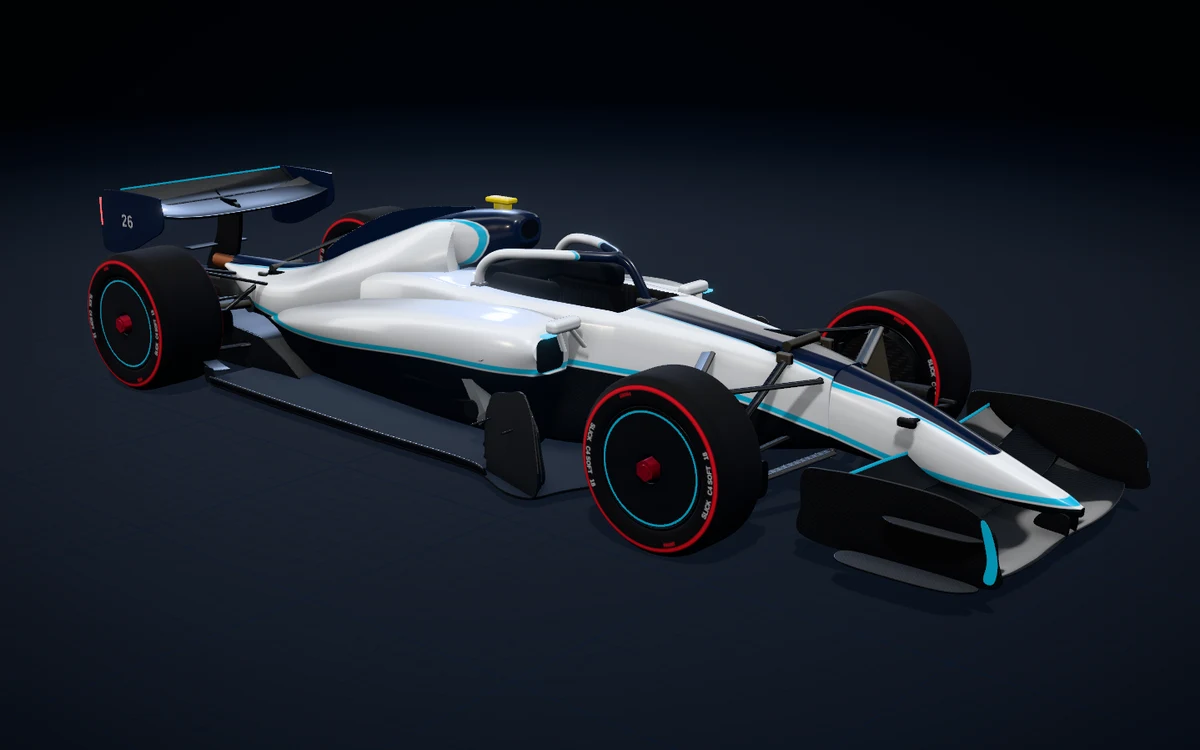
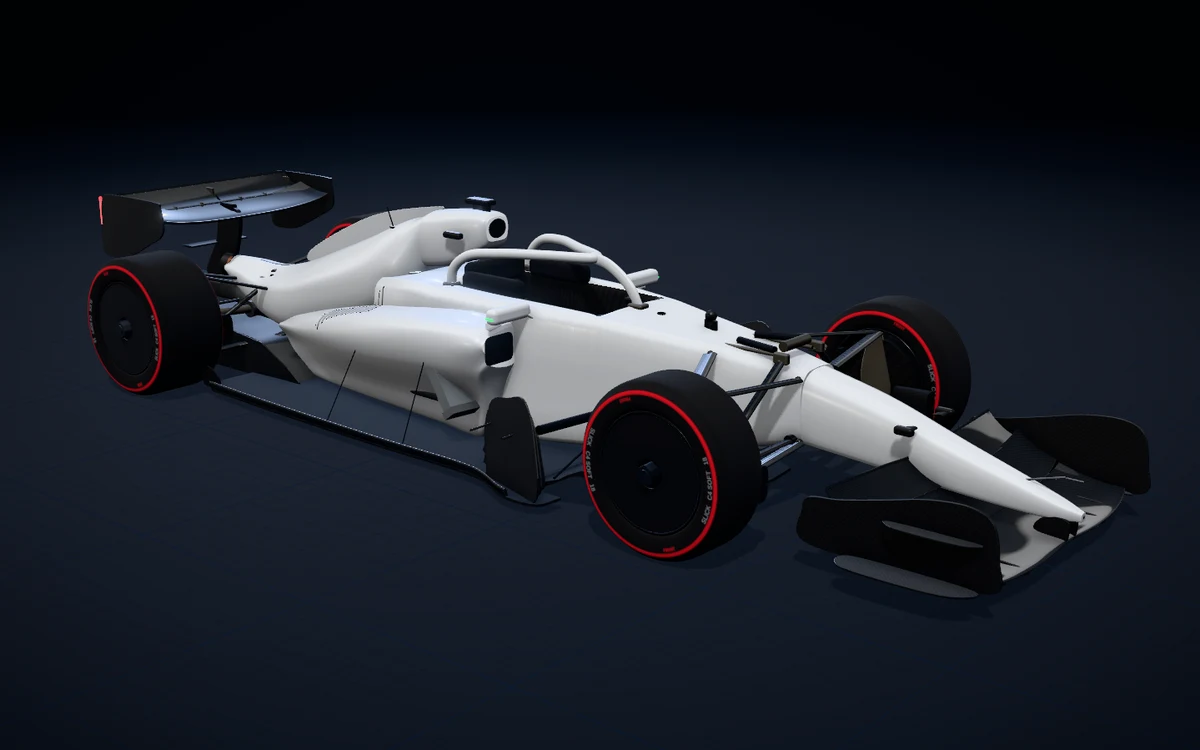
2026 car: sculpted front endplates, transponders and ballast, docs
Reshape the front wing endplates, add the two timing transponders and the
tungsten ballast, refresh the home page preview in the house livery, and
document the FIA datums and the shared livery standard.

Changed region(s): [[0.0617, 0.2147, 0.9558, 0.7973], [0.925, 0.552, 0.9558, 0.5827], [0.5242, 0.6133, 0.555, 0.644]]

diff --git a/lib/cars/content/car-2026.ts b/lib/cars/content/car-2026.ts
@@ -493,6 +493,26 @@ export const car2026: CarInfo = {
         "Four extra holes are allowed in the plank just to reach the bolts that secure it.",
       ],
     },
+    transponders: {
+      name: "Timing transponders",
+      category: "electronics",
+      summary: "Two transponders, supplied by the official timekeepers, that time every lap to a thousandth of a second.",
+      details: [
+        "Each one signals to loops buried in the track at the finish line and the sector boundaries. Every car carries two, fitted exactly as the timekeepers specify, so a failure never loses a lap time.",
+      ],
+    },
+    ballast: {
+      name: "Ballast",
+      category: "chassis",
+      summary: "Dense tungsten plates bolted low in the car to bring it up to the minimum mass.",
+      details: [
+        "Teams build the car below the 724 kg-plus-tyres limit on purpose, then add ballast where it helps most: as low as possible, and placed to tune the front-to-rear weight split. It must be fixed so that tools are needed to remove it, and it can be sealed by the scrutineers.",
+      ],
+      specs: [
+        ["Minimum mass", "724 kg + tyres (726 kg + tyres in qualifying)"],
+        ["Weight split", "Front ≥44%, rear ≥54% of the minimum"],
+      ],
+    },
 
     // --- Cooling ------------------------------------------------------------
     cooling: {

diff --git a/components/explorer/models/car-2026/Chassis.tsx b/components/explorer/models/car-2026/Chassis.tsx
@@ -650,6 +650,24 @@ export function Cameras({ nose, airbox }: { nose: { explode: V3; range: [number,
   );
 }
 
+/** The two timing transponders (C8.15), low in the forward chassis. */
+export function Transponders() {
+  const geo = useMemo(
+    () => cached("car26-transponders", () => mergeAll([roundedBox(70, 26, 44, 6).clone().translate(1420, 214, 62), roundedBox(70, 26, 44, 6).clone().translate(1420, 214, -62)])),
+    [],
+  );
+  return <mesh geometry={geo} material={paintColour("transponder", "#1f3b63", { roughness: 0.5, clearcoat: 0.3 })} castShadow />;
+}
+
+/** Tungsten ballast plates bolted low in the survival cell floor to reach the minimum mass (C4.3). */
+export function Ballast() {
+  const geo = useMemo(
+    () => cached("car26-ballast", () => mergeAll([roundedBox(260, 14, 200, 3).clone().translate(620, 78, 0), roundedBox(180, 14, 160, 3).clone().translate(1060, 108, 0)])),
+    [],
+  );
+  return <mesh geometry={geo} material={paintColour("tungsten", "#6e7176", { roughness: 0.42, metalness: 0.9, clearcoat: 0 })} castShadow />;
+}
+
 /** Accident data recorder: bolted to the floor of the survival cell near the centre of gravity. */
 export function AccidentRecorder() {
   return (

diff --git a/components/explorer/models/car-2026/Car2026Model.tsx b/components/explorer/models/car-2026/Car2026Model.tsx
@@ -4,6 +4,7 @@ import { Mirrored, Part } from "../../Part";
 import { AirboxCooler, EngineCover, Radiators, Sidepods } from "./Bodywork";
 import {
   AccidentRecorder,
+  Ballast,
   Cameras,
   CockpitLights,
   Extinguisher,
@@ -19,6 +20,7 @@ import {
   Seat,
   SideImpact,
   SteeringWheel,
+  Transponders,
 } from "./Chassis";
 import { Diffuser, FloorBoards, FloorBody, FloorFront, FloorStays, FloorWinglets, Plank } from "./Floor";
 import { Clutch, Differential, Driveshafts, GearboxCasing, GearCluster, RainLight, RearImpact } from "./Gearbox";
@@ -164,6 +166,12 @@ export default function Car2026Model() {
         </Part>
         <Part id="adr" explode={[0, 300, 0]} explodeRange={[0.12, 0.6]}>
           <AccidentRecorder />
+        </Part>
+        <Part id="transponders" explode={[0, 300, 0]} explodeRange={[0.12, 0.6]}>
+          <Transponders />
+        </Part>
+        <Part id="ballast" explode={[0, 260, 0]} explodeRange={[0.12, 0.6]}>
+          <Ballast />
         </Part>
       </Part>
 

diff --git a/components/explorer/models/car-2026/Wings.tsx b/components/explorer/models/car-2026/Wings.tsx
@@ -130,17 +130,20 @@ export function FrontEndplates() {
     () =>
       cached("car26-fw-endplates", () => {
         const z = FW_EP_Z;
+        // Tall at the leading edge, the top sweeping down towards the trailing
+        // edge where the flaps meet it.
         const ep = plate(
           smoothOutline(
             [
               [2955, 126],
-              [2968, 230],
-              [2930, 345],
-              [2780, 404],
-              [2520, 414],
-              [2300, 402],
-              [2186, 376],
-              [2180, 250],
+              [2972, 250],
+              [2945, 372],
+              [2860, 414],
+              [2700, 404],
+              [2520, 360],
+              [2340, 318],
+              [2214, 300],
+              [2186, 250],
               [2200, 124],
               [2600, 118],
             ],

diff --git a/docs/DEVELOPMENT.md b/docs/DEVELOPMENT.md
@@ -29,6 +29,35 @@ wheelbase is centred on x = 0 and the tyres stand on y = 0. Heights in the
 rules are measured from the reference plane (`CAR.refY`, the top of the plank).
 Use `Z(mm)` from the car's layout to convert.
 
+The FIA's own X axis runs rearward from datum planes, and each car's
+`layout.ts` exports those planes as car x positions:
+
+| Datum | Meaning |
+| --- | --- |
+| `XF`, `XR` | Front and rear axles |
+| `XA` | Forward limit of the survival cell |
+| `XC` | Rear of the cockpit |
+| `XPU` | ICE mounting face |
+| `XDIF` | Final-drive axis |
+
+A rule position "XA = d" is `XA - d`. Build from the datums and the
+regulation boxes rather than eyeballing.
+
+## House livery
+
+Every era uses the same livery (`kit/livery.ts`), so the eye goes to the parts:
+
+- One neutral satin paint on the bodywork shells (survival cell, nose, engine
+  cover, sidepods, halo fairing, mirror housings).
+- Bare carbon on wings, floor, suspension and structure, and natural metals
+  on the mechanical parts.
+- No stripes, accent colours or race numbers.
+
+Functional surface detail (cooling louvres, the cockpit's bare-carbon
+interior) goes in the era's `livery.ts` as GLSL in the paint's pattern
+function. The only colours on the car are functional: tyre compound bands,
+lights, and orange high-voltage cabling.
+
 ## Parts and motion
 
 - `<Part id explode explodeRange explodeRotate cover>`: a selectable,

diff --git a/README.md b/README.md
@@ -5,7 +5,9 @@ in your browser. Rotate a car, pull it apart layer by layer, and click any part
 to learn what it does.
 
 Every car is procedural, real-time geometry built entirely in code: no
-downloaded meshes or photos.
+downloaded meshes or photos. Each one is built to its era's FIA technical
+regulations, and all of them wear the same plain livery so the eye goes to the
+engineering.
 
 | Era | Years | Theme | Status |
 | --- | --- | --- | --- |
